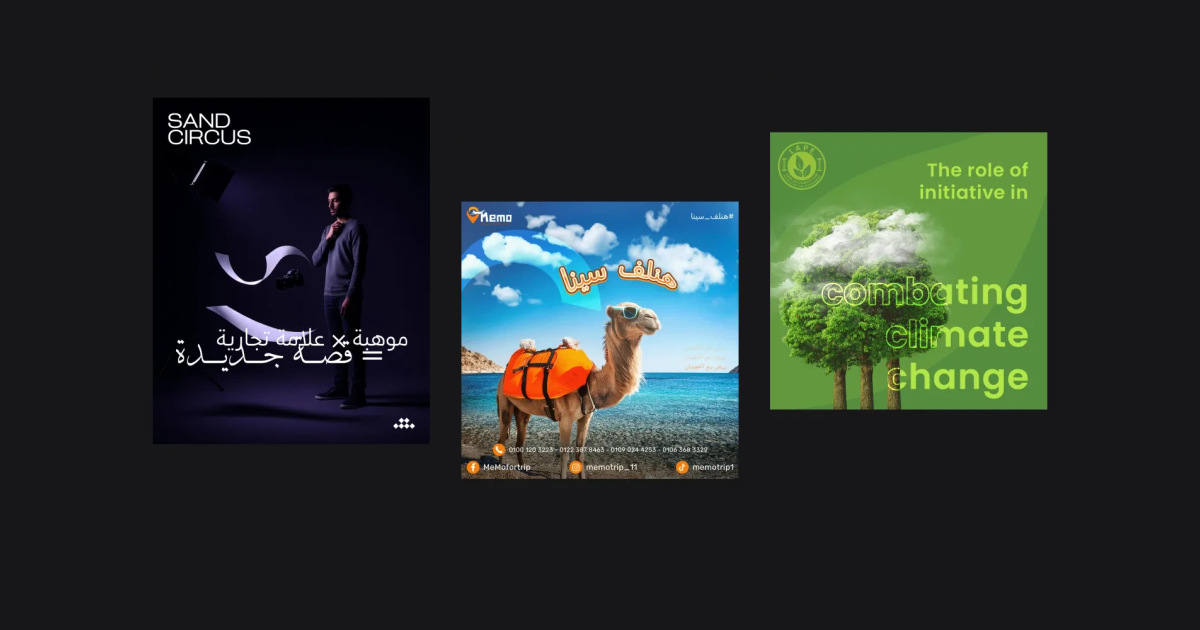
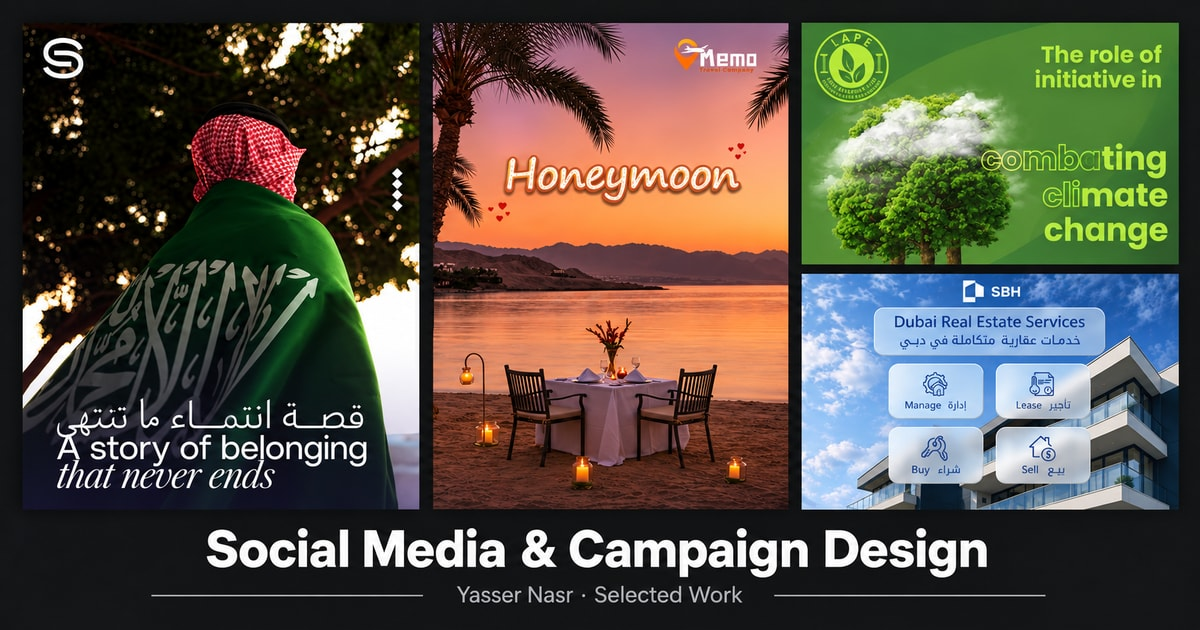
V20

diff --git a/src/data/projects.ts b/src/data/projects.ts
@@ -56,25 +56,25 @@ export const projects: Project[] = [
     industry: "Selected brands and industries",
     statement: "A curated collection of social media campaigns, digital content, and profile branding created across multiple brands and industries.",
     image: "/projects/social-media-campaign-design/cover/social-media-campaign-design-cover.png",
-    imageAlt: "Social campaign designs for Sand Circus, Memo Travel, and LAPE arranged together on a dark background.",
+    imageAlt: "Social media campaign designs for Sand Circus, Memo Travel, LAPE, and SBH arranged in an editorial collage.",
     tags: ["Social Media Design", "Campaign Design", "Digital Content"],
     featured: false,
     publishable: true,
     seo: {
       title: "Social Media & Campaign Design Portfolio | Yasser Nasr",
-      description: "Selected social media and campaign design work by Yasser Nasr, including campaign systems, digital content, Instagram layouts, Facebook branding, and social profile covers.",
+      description: "Social media and campaign design portfolio by Yasser Nasr, featuring Instagram carousels, Snapchat stories, profile branding, and multi-industry content.",
       canonical: "https://yassernasr.com/work/social-media-campaign-design",
       openGraphTitle: "Social Media & Campaign Design | Yasser Nasr",
-      openGraphDescription: "A curated collection of social media campaigns, digital content systems, and profile branding across multiple brands and industries.",
+      openGraphDescription: "Explore social media campaigns, Instagram carousels, Snapchat stories, and profile branding created for Sand Circus, PPR, SBH, LAPE, Memo Travel, and more.",
       image: "/projects/social-media-campaign-design/og/social-media-campaign-design-og.jpg",
-      imageAlt: "Selected Sand Circus, Memo Travel, and LAPE social campaign artwork.",
+      imageAlt: "Social Media and Campaign Design portfolio cover by Yasser Nasr featuring Sand Circus, Memo Travel, LAPE, and SBH artwork.",
       imageWidth: 1200,
       imageHeight: 630,
     },
     structuredData: {
       headline: "Selected Social Media & Campaign Design Work",
-      description: "A curated collection of social media campaign systems, digital content, Instagram layouts, profile branding, and social cover design created across multiple brands and industries.",
-      keywords: ["Social Media Design", "Campaign Design", "Digital Content", "Instagram Design", "Facebook Branding", "LinkedIn Cover Design"],
+      description: "Social media and campaign design by Yasser Nasr across real estate, travel, legal marketing, environmental advocacy, culture, healthcare, and technology brands.",
+      keywords: ["Social Media Design Portfolio", "Campaign Design", "Instagram Carousel Design", "Snapchat Story Design", "Facebook Profile Branding", "Digital Content Design"],
     },
   },
   {
@@ -528,42 +528,6 @@ export const projects: Project[] = [
       imageWidth: 1200,
       imageHeight: 630,
     },
-  },
-  {
-    title: "Project 01",
-    slug: "placeholder-01",
-    category: "Brand Identity",
-    categories: [],
-    year: "2024",
-    statement: "One-line value statement will go here once this case study is approved.",
-    image: null,
-    imageAlt: "Temporary — update when the project image is approved.",
-    featured: true,
-    publishable: false,
-  },
-  {
-    title: "Project 02",
-    slug: "placeholder-02",
-    category: "Digital Design",
-    categories: [],
-    year: "2024",
-    statement: "One-line value statement will go here once this case study is approved.",
-    image: null,
-    imageAlt: "Temporary — update when the project image is approved.",
-    featured: false,
-    publishable: false,
-  },
-  {
-    title: "Project 04",
-    slug: "placeholder-04",
-    category: "Motion & Presentation",
-    categories: [],
-    year: "2023",
-    statement: "One-line value statement will go here once this case study is approved.",
-    image: null,
-    imageAlt: "Temporary — update when the project image is approved.",
-    featured: true,
-    publishable: false,
   },
 ];
 

diff --git a/src/components/case-study/RenovoFixCaseStudy.tsx b/src/components/case-study/RenovoFixCaseStudy.tsx
@@ -97,7 +97,7 @@ export default function RenovoFixCaseStudy({ project }: { project: Project }) {
 
     <section id="ai-visualization" className="border-t border-edge py-16 md:py-24"><Heading eyebrow="Visualization">Visualizing the Outcome Before Completion</Heading><p className="mt-7 max-w-3xl text-lg leading-8 text-ink-soft">Before completed renovation photography was available, I created AI-assisted proposed visualizations using the real site, purchased materials, existing architecture, and planned design direction. The output was refined to preserve layout, perspective, proportions, and material choices.</p>
       <ol className="mt-8 flex flex-wrap items-center gap-2 text-xs uppercase tracking-[0.12em] text-ink-soft">{["Actual Site", "Work in Progress", "Selected Materials", "Proposed Visualization", "Motion"].map((item, index) => <li key={item} className="flex items-center gap-2"><span className="rounded-full border border-edge px-3 py-2">{item}</span>{index < 4 && <span aria-hidden="true">→</span>}</li>)}</ol><p className="mt-8 inline-flex border-l-2 border-[#14B7A5] pl-4 text-xs font-semibold uppercase tracking-[0.16em] text-ink">AI-Assisted Proposed Visualization</p>
-      <div className="mt-8 grid gap-6 sm:grid-cols-2">{transformations.map((file, index) => <Video key={file} src={`${base}/before-after/${file}`} label={`AI-assisted proposed renovation visualization ${index + 1}`} vertical={index > 0} />)}</div>
+      <div className="mt-8 grid gap-6 sm:grid-cols-2">{transformations.map((file, index) => <Video key={file} src={`${base}/before-after/${file}`} poster={`${base}/before-after/${file.replace(".mp4", "-cover.webp")}`} label={`AI-assisted proposed renovation visualization ${index + 1}`} vertical={index > 0} />)}</div>
     </section>
 
     <section id="website" className="border-t border-edge py-16 md:py-24"><Heading eyebrow="Digital">Website Experience</Heading><p className="mt-7 max-w-3xl text-lg leading-8 text-ink-soft">The website extended the RenovoFix identity into a practical service and enquiry experience, helping users understand services, review work, explore annual contracts, and contact the company through forms or WhatsApp.</p>

diff --git a/src/components/case-study/SocialMediaCampaignCaseStudy.tsx b/src/components/case-study/SocialMediaCampaignCaseStudy.tsx
@@ -58,24 +58,28 @@ const relatedBrandWork = [
     name: "PPR",
     description: "Legal marketing and public relations content.",
     image: "/projects/pillars-pr/social-media/static/pillars-pr-active-social-media-for-lawyers.webp",
+    alt: "Pillars PR social media design about building an active digital presence for lawyers.",
     href: "/work/pillars-pr-brand-communication-design",
   },
   {
     name: "MENA Law Reporters",
     description: "Bilingual legal media and professional content.",
     image: "/projects/mena-law-reporters/social-media/mena-law-reporters-legal-news-awareness-post.webp",
+    alt: "MENA Law Reporters bilingual social media design for legal news and professional awareness.",
     href: "/work/mena-law-reporters",
   },
   {
     name: "X Factor Interior Design",
     description: "Luxury interior design and property content.",
     image: "/projects/x-factor-interior-design/social-media/x-factor-interior-design-dubai-bespoke-interiors.webp",
+    alt: "X Factor Interior Design social media post presenting bespoke luxury interiors in Dubai.",
     href: "/work/x-factor-interior-design-branding-case-study",
   },
   {
     name: "RenovoFix",
     description: "Property maintenance and home-services content.",
     image: "/projects/renovofix/social-media/renovofix-responsive-maintenance-social-post.webp",
+    alt: "RenovoFix social media design promoting responsive property maintenance services in Dubai.",
     href: "/work/renovofix-brand-digital-design",
   },
 ] as const;
@@ -254,7 +258,7 @@ export default function SocialMediaCampaignCaseStudy({ project }: { project: Pro
                   <div className="relative aspect-square overflow-hidden bg-surface">
                     <Image
                       src={brand.image}
-                      alt={`${brand.name} social media design`}
+                      alt={brand.alt}
                       fill
                       sizes="(min-width: 1024px) 288px, (min-width: 640px) 50vw, 100vw"
                       className="object-cover transition-transform duration-500 ease-out group-hover:scale-[1.025]"

diff --git a/src/components/case-study/SnapchatStoryViewer.tsx b/src/components/case-study/SnapchatStoryViewer.tsx
@@ -1,7 +1,7 @@
 "use client";
 
 import Image from "next/image";
-import { useEffect, useState } from "react";
+import { useState } from "react";
 
 type Story = { src: string; alt: string };
 
@@ -10,19 +10,19 @@ export default function SnapchatStoryViewer({ stories }: { stories: readonly Sto
   const previous = () => setActiveIndex((index) => Math.max(0, index - 1));
   const next = () => setActiveIndex((index) => Math.min(stories.length - 1, index + 1));
 
-  useEffect(() => {
-    const onKeyDown = (event: KeyboardEvent) => {
-      if (event.key === "ArrowLeft") previous();
-      if (event.key === "ArrowRight") next();
-    };
-    window.addEventListener("keydown", onKeyDown);
-    return () => window.removeEventListener("keydown", onKeyDown);
-  }, [stories.length]);
-
   const story = stories[activeIndex];
 
   return (
-    <div className="mt-10">
+    <div
+      className="mt-10"
+      role="region"
+      aria-label="Snapchat story viewer"
+      tabIndex={0}
+      onKeyDown={(event) => {
+        if (event.key === "ArrowLeft") previous();
+        if (event.key === "ArrowRight") next();
+      }}
+    >
       <div className="relative mx-auto aspect-[9/16] w-full max-w-[23rem] overflow-hidden rounded-[1.75rem] bg-black shadow-2xl shadow-black/35 ring-1 ring-black/20">
         <Image src={story.src} alt={story.alt} fill priority sizes="(min-width: 640px) 368px, calc(100vw - 72px)" className="object-cover" />
 

diff --git a/src/app/work/[slug]/page.tsx b/src/app/work/[slug]/page.tsx
@@ -30,6 +30,10 @@ export async function generateMetadata({ params }: Props): Promise<Metadata> {
   return {
     title: { absolute: project.seo.title },
     description: project.seo.description,
+    keywords: project.structuredData?.keywords,
+    category: project.category,
+    creator: "Yasser Nasr",
+    authors: [{ name: "Yasser Nasr", url: "https://yassernasr.com" }],
     alternates: { canonical: project.seo.canonical },
     robots: project.publishable
       ? { index: true, follow: true }
@@ -38,6 +42,8 @@ export async function generateMetadata({ params }: Props): Promise<Metadata> {
       title: project.seo.openGraphTitle,
       description: project.seo.openGraphDescription,
       url: project.seo.canonical,
+      siteName: "Yasser Nasr",
+      locale: "en_US",
       type: "article",
       images: socialImage ? [{
         url: socialImage,
@@ -50,7 +56,7 @@ export async function generateMetadata({ params }: Props): Promise<Metadata> {
       card: "summary_large_image",
       title: project.seo.openGraphTitle,
       description: project.seo.openGraphDescription,
-      images: socialImage ? [socialImage] : undefined,
+      images: socialImage ? [{ url: socialImage, alt: socialImageAlt }] : undefined,
     },
   };
 }

diff --git a/src/data/resume.ts b/src/data/resume.ts
@@ -16,20 +16,6 @@ export const resumeHero = {
   ],
 };
 
-// Retained for the reusable ResumeSnapshot component, which is not rendered
-// on the CV-aligned Resume page.
-export type SnapshotStat = {
-  title: string;
-  description: string;
-};
-
-export const snapshotStats: SnapshotStat[] = [
-  { title: "6+ Years", description: "Design experience across branding, digital, campaigns, motion, and visual communication." },
-  { title: "GCC Market", description: "Remote experience with businesses, agencies, and organizations across UAE and Saudi Arabia." },
-  { title: "Brand Systems", description: "Building visual identities, design systems, websites, campaigns, presentations, and digital assets." },
-  { title: "150+ Students", description: "Mentored students through graphic design programs, portfolio development, and practical design training." },
-];
-
 export const resumeProfile = {
   heading: "Professional Summary",
   paragraphs: professionalSummary,

diff --git a/src/data/socialMediaCampaign.ts b/src/data/socialMediaCampaign.ts
@@ -112,7 +112,7 @@ export const socialCampaignAssets = {
     "src": "/projects/social-media-campaign-design/selected/madina-womens-hospital.webp",
     "width": 1080,
     "height": 1080,
-    "alt": "Madina Womens Hospital fertility treatment design with a baby and capsule forms on a pink background."
+    "alt": "Madina Women's Hospital fertility treatment social media design with a baby and capsule forms on a pink background."
   },
   "alsallal-property-launch": {
     "src": "/projects/social-media-campaign-design/selected/alsallal-property-launch.webp",

diff --git a/src/data/work.ts b/src/data/work.ts
@@ -41,7 +41,6 @@ function toWorkProject(project: (typeof projects)[number]): WorkProject {
   };
 }
 
-export const workProjects = projects.map(toWorkProject);
 export const publishedWorkProjects = publishedProjects.map(toWorkProject);
 export const developmentWorkProjects = projects
   .filter((project) => project.publishable || Boolean(project.seo))

diff --git a/docs/social-media-campaign-design.md b/docs/social-media-campaign-design.md
@@ -4,7 +4,7 @@ Production route: https://yassernasr.com/work/social-media-campaign-design
 
 ## Current presentation
 
-All 48 files supplied in public/projects/New folder are included as optimized, uncropped sRGB WebP assets. No source designs are skipped or renamed. The original source files remain untouched. The existing cover and OG composition remain unchanged.
+All 48 supplied designs are represented by uncropped production assets. No source design is skipped. The source-to-delivery mapping remains in `content/social-media-campaign-asset-mapping.json`; the obsolete staging copies have been removed after replacement. The existing cover and OG composition remain unchanged.
 
 - Six client Instagram presentations: Sand Circus (3 posts, including a two-slide Arabic/English Talent x Brand carousel), Memo Travel (14), SBH (8), LAPE (4), El Masrya (4), Cultural Development Fund (3).
 - One mixed Instagram gallery: 9 additional designs, including both Saudi National Day portraits, Beyond, Madina, Alsallal, SkyTrack, both engineering invitations, and the clearly labeled Moeen design exercise.
@@ -16,7 +16,7 @@ All 48 files supplied in public/projects/New folder are included as optimized, u
 
 ## Validation
 
-Production build, lint, and TypeScript pass. File mapping accounts for each of the 48 originals exactly once. Browser automation remains unavailable, so interactive desktop/mobile and measured overflow checks are not claimed.
+Production build, lint, and TypeScript pass. File mapping accounts for each of the 48 originals exactly once. The public page has also been checked at desktop, tablet, and mobile widths for overflow, broken images, layout shift, headings, and metadata.
 
 ## Source files for this project
 
@@ -30,7 +30,7 @@ Production build, lint, and TypeScript pass. File mapping accounts for each of t
 
 ## Delivery image files
 
-- public/projects/social-media-campaign-design/cover/social-media-campaign-design-cover.webp
+- public/projects/social-media-campaign-design/cover/social-media-campaign-design-cover.png
 - public/projects/social-media-campaign-design/featured/cultural-development-fund/cultural-development-fund-financing.webp
 - public/projects/social-media-campaign-design/featured/el-masrya/el-masrya-handle-200.webp
 - public/projects/social-media-campaign-design/featured/el-masrya/el-masrya-handle-203.webp

diff --git a/docs/PORTFOLIO-UIUX-GUIDELINES.md b/docs/PORTFOLIO-UIUX-GUIDELINES.md
@@ -1,0 +1,23 @@
+# Portfolio UI/UX Guidelines
+
+## System
+
+- Use the existing Yasser Nasr UI/UX system and dark editorial visual language. Extend existing tokens, spacing, typography, motion, and case-study components before creating new patterns.
+- Do not redesign the site or add unnecessary cards. Presentation UI must support the artwork, never overpower it.
+- Preserve original source-asset dimensions, format, and quality. Do not compress, resize, convert, or replace used media with lower-quality versions.
+
+## Case studies
+
+- Keep case studies visual-first, generally around 80% visuals and 20% concise copy.
+- Favor large imagery and varied editorial layouts while preserving responsive behavior and clear hierarchy.
+- Present campaign systems as connected visual groups.
+- Give clients with three or more related designs a dedicated subsection. Place clients with only one or two designs in a curated Selected Work section.
+- Present Instagram work in a realistic profile/grid context without excessive fake UI. Present Facebook branding with realistic cover-and-profile context, and LinkedIn covers in realistic header/profile context.
+- Motion and video may use a separate portfolio collection when that produces a clearer body of work.
+
+## Definition of done
+
+- Public projects are published, indexable, and included in the sitemap by default.
+- Every page has correct canonical, metadata, OG data, structured data, one H1, meaningful image alt text (or an intentionally empty alt for decorative/repeated images), valid internal links, and working assets.
+- Verify desktop, tablet, and mobile layouts for overflow, cropping, spacing, layout shift, keyboard access, focus behavior, and reduced motion.
+- Keep unpublished work out of public grids, static params, metadata, structured data, and the sitemap.

diff --git a/AGENTS.md b/AGENTS.md
@@ -3,3 +3,7 @@
 
 This version has breaking changes — APIs, conventions, and file structure may all differ from your training data. Read the relevant guide in `node_modules/next/dist/docs/` before writing any code. Heed deprecation notices.
 <!-- END:nextjs-agent-rules -->
+
+## Portfolio design and publishing rules
+
+Follow [`docs/PORTFOLIO-UIUX-GUIDELINES.md`](docs/PORTFOLIO-UIUX-GUIDELINES.md) for every portfolio or case-study change. Treat the published site and its existing Yasser Nasr UI/UX system as the baseline; extend it without redesigning it. Preserve original media quality, reuse established components, and ship public work production-ready with responsive, accessibility, metadata, canonical, OG, structured-data, and sitemap checks.
